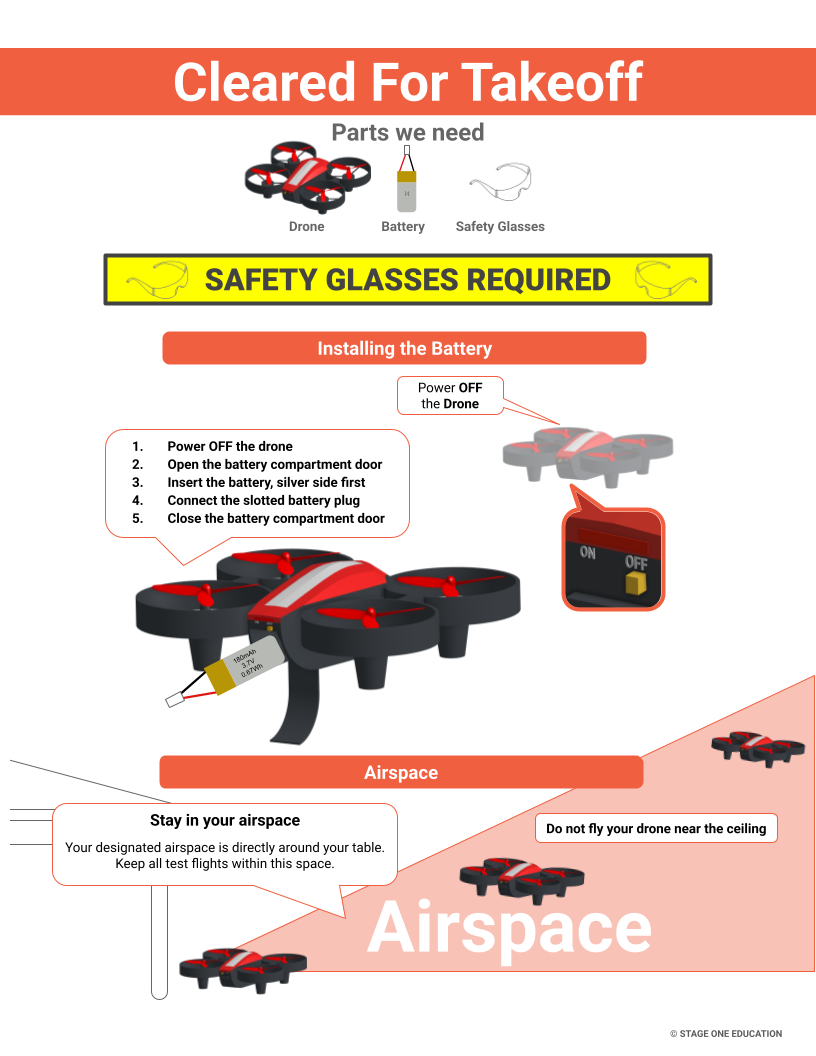
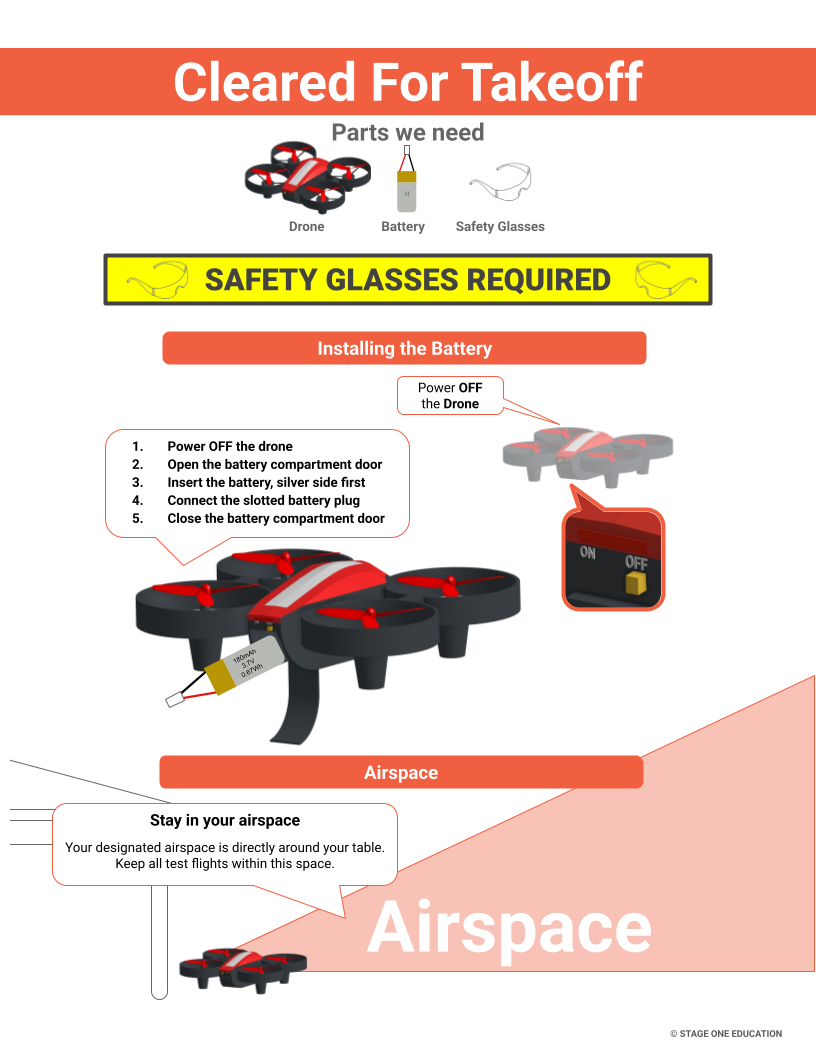
Pages 10-16

Changed region(s): [[0.5515, 0.6875, 1.0, 0.875]]

diff --git a/drone_interactive_instruction/src/components/InstructionsPanel.jsx b/drone_interactive_instruction/src/components/InstructionsPanel.jsx
@@ -630,11 +630,6 @@ function InstructionsPanel({ editorMode, onDimensionsCapture, onRefresh, onPageS
 
   const handlePage8Box2 = () => {
     setPage8Box2Selected(true)
-    // When box 2 is selected, also mark box 3 and box 4 as selected (visually)
-    // and hide the white box covering box 4
-    setPage8Box3Selected(true)
-    setPage8Box4Selected(true)
-    setPage8Box3WhiteBoxHidden(true)
   }
 
   const handlePage8Box3 = () => {
@@ -2880,7 +2875,11 @@ function InstructionsPanel({ editorMode, onDimensionsCapture, onRefresh, onPageS
                   {currentPage === 8 && !editorMode && !page9WhiteBoxesHidden && (
                     <div
                       style={{
-                        ...getButtonStyle(12.72, 42.70, 48.45, 33.92),
+                        position: 'absolute',
+                        left: '12.72%',
+                        top: '42.70%',
+                        width: '48.45%',
+                        height: '33.92%',
                         backgroundColor: 'white',
                         border: 'none',
                         pointerEvents: 'none',
@@ -2892,7 +2891,11 @@ function InstructionsPanel({ editorMode, onDimensionsCapture, onRefresh, onPageS
                   {currentPage === 8 && !editorMode && !page9RightWhiteBoxHidden && (
                     <div
                       style={{
-                        ...getButtonStyle(67.28, 25.41, 24.43, 33.92),
+                        position: 'absolute',
+                        left: '67.28%',
+                        top: '25.41%',
+                        width: '24.43%',
+                        height: '33.92%',
                         backgroundColor: 'white',
                         border: 'none',
                         pointerEvents: 'none',
@@ -5518,16 +5521,6 @@ function InstructionsPanel({ editorMode, onDimensionsCapture, onRefresh, onPageS
                         const dot1RightPercent = imageNaturalSize.width > 0 ? (dot1RightPx / imageNaturalSize.width) * 100 : 0
                         const adjustedDot1X = dot1X + dot1RightPercent
                         
-                        // Move dot 2 to the right by 4px
-                        const dot2RightPx = 4
-                        const dot2RightPercent = imageNaturalSize.width > 0 ? (dot2RightPx / imageNaturalSize.width) * 100 : 0
-                        const adjustedDot2X = dot2X + dot2RightPercent
-                        
-                        // Move dot 3 down by 2px
-                        const dot3DownPx = 2
-                        const dot3DownPercent = imageNaturalSize.height > 0 ? (dot3DownPx / imageNaturalSize.height) * 100 : 0
-                        const adjustedDot3Y = dot3Y + dot3DownPercent
-                        
                         const adjustedLeft = Math.max(0, boxLeft - leftOffsetAdjust + leftEdgeRightPercent)
                         const adjustedTop = Math.max(0, boxTop - topOffsetAdjust + topDownOffsetPercent)
                         const expandedWidth = Math.min(100 - adjustedLeft, boxWidth + widthPercentAdjust - totalWidthReductionPercent)
@@ -5536,10 +5529,10 @@ function InstructionsPanel({ editorMode, onDimensionsCapture, onRefresh, onPageS
                         
                         // Calculate triangle - it extends DOWNWARD from the bottom edge (between dot1 and dot2) to dot3
                         const triangleBaseLeft = adjustedDot1X
-                        const triangleBaseRight = adjustedDot2X
+                        const triangleBaseRight = dot2X
                         const triangleBaseY = adjustedTop + expandedHeight
                         const triangleTipX = dot3X
-                        const triangleTipY = adjustedDot3Y
+                        const triangleTipY = dot3Y
                         
                         const borderRadiusPx = Math.min(15, Math.max(6, 15 * stageRelativeScale))
                         const wrapperWidthPx = (expandedWidth / 100) * stageWidthPx
@@ -10535,14 +10528,14 @@ function InstructionsPanel({ editorMode, onDimensionsCapture, onRefresh, onPageS
               (currentPage === 4 && !page5GreenDotSelected) ||
               (currentPage === 5 && (!page6Button1Clicked || !page6Button2Clicked)) ||
               (currentPage === 6 && !page7Box4EverSelected) ||
-              (currentPage === 7 && !page8Box2Selected) ||
+              (currentPage === 7 && page8Box2Selected && !page8Box4Selected) ||
               (currentPage === 8 && !page9Box2Selected) ||
               (currentPage === 9 && !page10Box3Selected) ||
               (currentPage === 10 && !page11Box3Selected) ||
               (currentPage === 11 && !page12Box2Selected) ||
               (currentPage === 12 && !page13Box3Selected)
             }
-            className={`btn-modern btn-nav ${(currentPage === 2 && page3SecondButtonClicked && !returningToPage3AfterSecondButton) || (currentPage === 3 && page4Button5Clicked) || (currentPage === 4 && page5GreenDotSelected) || (currentPage === 5 && page6Button1Clicked && page6Button2Clicked) || (currentPage === 6 && page7Box4EverSelected) || (currentPage === 7 && page8Box2Selected) || (currentPage === 8 && page9Box2Selected) || (currentPage === 9 && page10Box3Selected) || (currentPage === 10 && page11Box3Selected) || (currentPage === 11 && page12Box2Selected) || (currentPage === 12 && page13Box3Selected) ? 'btn-nav-blue' : ''}`}
+            className={`btn-modern btn-nav ${(currentPage === 2 && page3SecondButtonClicked && !returningToPage3AfterSecondButton) || (currentPage === 3 && page4Button5Clicked) || (currentPage === 4 && page5GreenDotSelected) || (currentPage === 5 && page6Button1Clicked && page6Button2Clicked) || (currentPage === 6 && page7Box4EverSelected) || (currentPage === 7 && (page8Box1Selected || page8Box4Selected)) || (currentPage === 8 && page9Box2Selected) || (currentPage === 9 && page10Box3Selected) || (currentPage === 10 && page11Box3Selected) || (currentPage === 11 && page12Box2Selected) || (currentPage === 12 && page13Box3Selected) ? 'btn-nav-blue' : ''}`}
             aria-label="Next page"
           >
             Next

diff --git a/drone_interactive_instruction/src/components/RightPanel.jsx b/drone_interactive_instruction/src/components/RightPanel.jsx
@@ -11,11 +11,6 @@ import page7_1 from '../assets/images/pages/7.1.png'
 import page8 from '../assets/images/pages/8.png'
 import page9 from '../assets/images/pages/9.png'
 import page10 from '../assets/images/pages/10.png'
-import page10_1 from '../assets/images/pages/10.1.png'
-import page11 from '../assets/images/pages/11.png'
-import page12 from '../assets/images/pages/12.png'
-import page13 from '../assets/images/pages/13.png'
-import page14 from '../assets/images/pages/14.png'
 
 function RightPanel({ editorMode, onToggleEditorMode, dimensions, onRefresh, onPageSelect }) {
   const [copied, setCopied] = useState(false)
@@ -125,29 +120,9 @@ Dot 3 Y: ${dimensions.dot3.y}%`
               <img src={page9} alt="Page 9" className="image-selector-thumbnail" />
               <span className="image-selector-label">9.png</span>
             </div>
-            <div className="image-selector-item" onClick={() => onPageSelect(9, false, true)}>
-              <img src={page10_1} alt="Page 10.1" className="image-selector-thumbnail" />
-              <span className="image-selector-label">10.1.png</span>
-            </div>
-            <div className="image-selector-item" onClick={() => onPageSelect(9, false, false, true)}>
+            <div className="image-selector-item" onClick={() => onPageSelect(9, false)}>
               <img src={page10} alt="Page 10" className="image-selector-thumbnail" />
               <span className="image-selector-label">10.png</span>
-            </div>
-            <div className="image-selector-item" onClick={() => onPageSelect(10, false)}>
-              <img src={page11} alt="Page 11" className="image-selector-thumbnail" />
-              <span className="image-selector-label">11.png</span>
-            </div>
-            <div className="image-selector-item" onClick={() => onPageSelect(11, false)}>
-              <img src={page12} alt="Page 12" className="image-selector-thumbnail" />
-              <span className="image-selector-label">12.png</span>
-            </div>
-            <div className="image-selector-item" onClick={() => onPageSelect(12, false)}>
-              <img src={page13} alt="Page 13" className="image-selector-thumbnail" />
-              <span className="image-selector-label">13.png</span>
-            </div>
-            <div className="image-selector-item" onClick={() => onPageSelect(13, false)}>
-              <img src={page14} alt="Page 14" className="image-selector-thumbnail" />
-              <span className="image-selector-label">14.png</span>
             </div>
           </div>
         </div>
